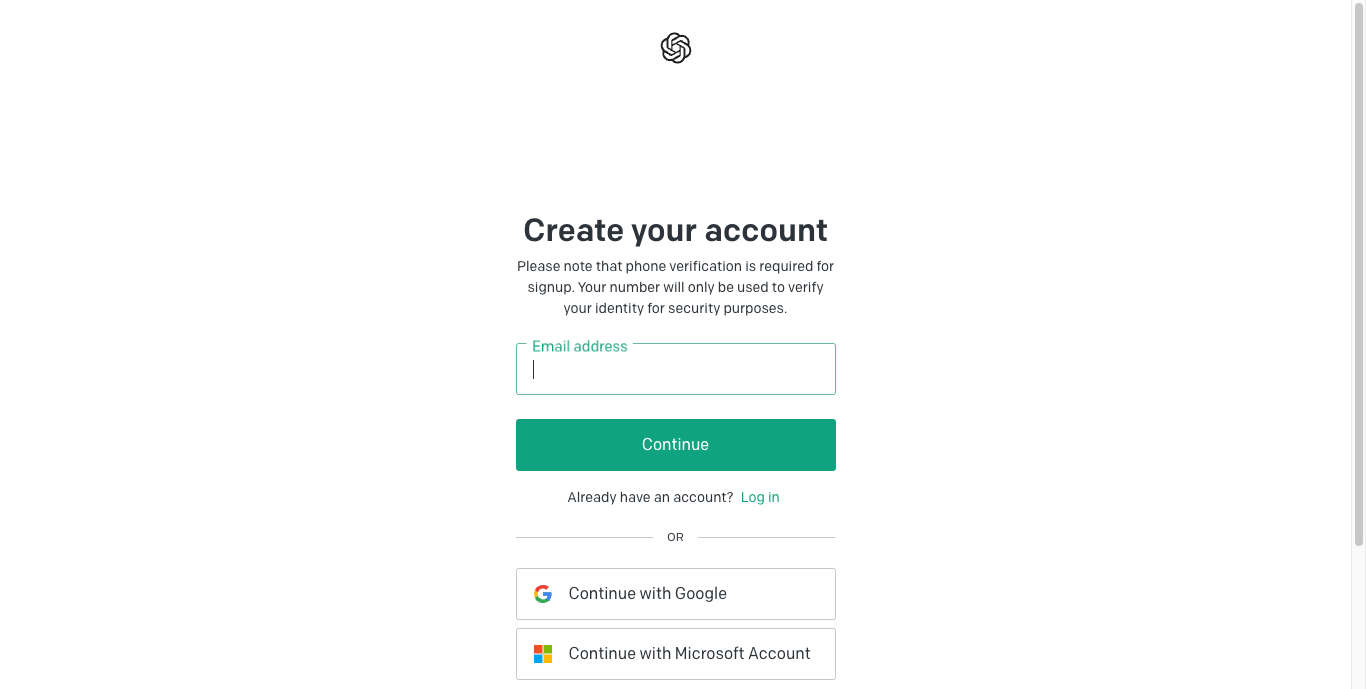
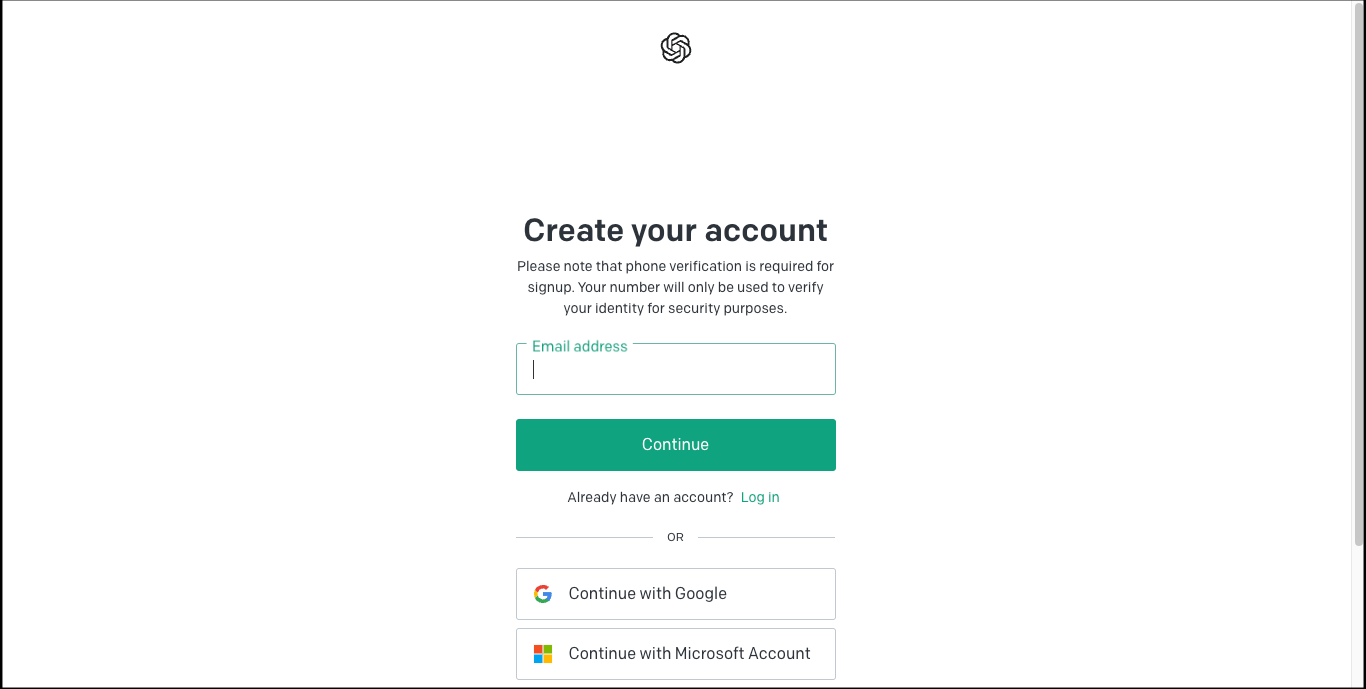
画像に枠線追加

Changed region(s): [[0.0, 0.0, 1.0, 1.0], [0.0, 0.0, 0.0307, 0.0305]]

diff --git a/README.md b/README.md
@@ -1,13 +1,5 @@
 # LINE アプリで簡単に作れる AI チャットボット！ ChatGPT 連携
 
-- 目次
-  1. 本日の流れ
-  1. OpenAI の設定
-  1. LINE Messaging API の設定
-  1. make の設定
-
-1. 本日の流れ
-
 - OpenAI の設定
 
   1. アカウント作成
